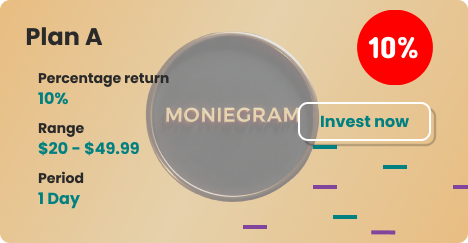
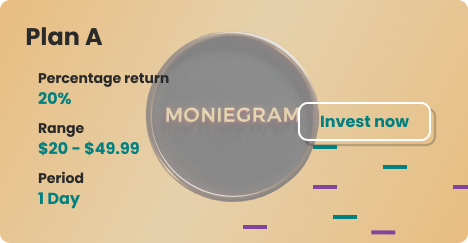
Add files via upload

Changed region(s): [[0.7479, 0.0288, 0.9274, 0.3745], [0.0598, 0.3745, 0.1496, 0.4321]]

diff --git a/invest.html b/invest.html
@@ -27,7 +27,7 @@
                   <div class="tab1">
                     <div class="tab" data-plan="plan-1" data-index="0" style=" background: linear-gradient(to right, rgb(248, 166, 50), rgb(255, 205, 136), rgb(255, 166, 42));"> 
                       <input type="radio" name="plan" id="plan-1-radio" value="plan-1">
-                      <h2>10% RIO AFTER 24 HOURS</h2>
+                      <h2>20% RIO AFTER 24 HOURS</h2>
                       <P class="range">$20-$49.99
 
                       </P> 
@@ -37,7 +37,7 @@
                     </div>
                     <div class="tab" data-plan="plan-2" data-index="1" style=" background: linear-gradient(to right, rgb(248, 166, 50), rgb(255, 205, 136), rgb(255, 166, 42));">
                       <input type="radio" name="plan" id="plan-2-radio" value="plan-2" >
-                      <h2>20% RIO 72 HOURS</h2>
+                      <h2>50% RIO 72 HOURS</h2>
                       <P class="range">$50 - $99.99</P> 
                       <!-- <button>Calculate</button>                        -->
                     </div>
@@ -45,13 +45,13 @@
                   <div class="tab1">
                     <div class="tab" data-plan="plan-3" data-index="2" style=" background: linear-gradient(to right, rgb(248, 166, 50), rgb(255, 205, 136), rgb(255, 166, 42));">
                       <input type="radio" name="plan" id="plan-3-radio" value="plan-3">
-                      <h2>50% RIO AFTER 1 WEEK</h2>
+                      <h2>100% RIO AFTER 1 WEEK</h2>
                       <P class="range">$100 - $499.99</P> 
                       <!-- <button>Calculate</button>                        -->
                     </div>
                     <div class="tab"  data-plan="plan-4" data-index="3" style=" background: linear-gradient(to right, rgb(248, 166, 50), rgb(255, 205, 136), rgb(255, 166, 42));">
                       <input type="radio" name="plan" id="plan-4-radio" value="plan-4">
-                      <h2>100% RIO AFTER 14 DAYS</h2>
+                      <h2>200% RIO AFTER 14 DAYS</h2>
                       <P class="range">$500 - Infinity</P> 
                      
                     </div>
@@ -127,8 +127,8 @@
       // Plan details with deposit limits
       const planDetails = [
         {
-          name: '10% RIO AFTER 24 HOURS',
-          profit: '10%',
+          name: '20% RIO AFTER 24 HOURS',
+          profit: '20%',
           principleReturn: 'Yes',
           creditAmount: '',
           depositFee: '0.00',
@@ -138,8 +138,8 @@
           maxDeposit: 49.99
         },
         {
-          name: '20% RIO AFTER 72 HOURS',
-          profit: '20%',
+          name: '50% RIO AFTER 72 HOURS',
+          profit: '50%',
           principleReturn: 'Yes',
           creditAmount: '',
           depositFee: '0.00',
@@ -149,8 +149,8 @@
           maxDeposit: 99.99
         },
         {
-          name: '50% RIO AFTER 1 WEEK',
-          profit: '50%',
+          name: '100% RIO AFTER 1 WEEK',
+          profit: '100%',
           principleReturn: 'Yes',
           creditAmount: '',
           depositFee: '0.00',
@@ -160,8 +160,8 @@
           maxDeposit: 499.99
         },
         {
-          name: '100% RIO AFTER 14 DAYS',
-          profit: '100%',
+          name: '200% RIO AFTER 14 DAYS',
+          profit: '200%',
           principleReturn: 'Yes',
           creditAmount: '',
           depositFee: '0.00',

diff --git a/server.js b/server.js
@@ -359,10 +359,10 @@ app.post('/api/deposit', async (req, res) => {
 
         // Calculate investment end date based on plan
         const planEndTimes = {
-            '10% RIO AFTER 24 HOURS': 24 * 60 * 60 * 1000, // 24 hours in milliseconds
-            '20% RIO AFTER 72 HOURS': 72 * 60 * 60 * 1000, // 72 hours in milliseconds
-            '50% RIO LONG TERM': 7 * 24 * 60 * 60 * 1000, // 7 days in milliseconds
-            '100% RIO AFTER 14 DAYS': 14 * 24 * 60 * 60 * 1000 // 14 days in milliseconds
+            '20% RIO AFTER 24 HOURS': 24 * 60 * 60 * 1000, // 24 hours in milliseconds
+            '50% RIO AFTER 72 HOURS': 72 * 60 * 60 * 1000, // 72 hours in milliseconds
+            '100% RIO LONG TERM': 7 * 24 * 60 * 60 * 1000, // 7 days in milliseconds
+            '200% RIO AFTER 14 DAYS': 14 * 24 * 60 * 60 * 1000 // 14 days in milliseconds
         };
 
         const investmentStartDate = new Date();
@@ -1338,10 +1338,10 @@ app.post('/api/admin/add-funds', async (req, res) => {
             const endDate = new Date(startDate.getTime() + duration * 60 * 60 * 1000);
 
             const planInterestRates = {
-                '10-RIO-AFTER-24-HOURS': 0.10,
-                '20-RIO-AFTER-72-HOURS': 0.20,
-                '50% RIO AFTER 1 WEEK': 0.50,
-                '100-RIO-AFTER-14-DAYS': 1.00
+                '20-RIO-AFTER-24-HOURS': 0.10,
+                '50-RIO-AFTER-72-HOURS': 0.20,
+                '100% RIO AFTER 1 WEEK': 0.50,
+                '200-RIO-AFTER-14-DAYS': 1.00
             };
 
             const interestRate = planInterestRates[plan_name] || 0;
@@ -1372,10 +1372,10 @@ app.post('/api/admin/add-funds', async (req, res) => {
 
 function getPlanDetails(planId) {
     const plans = {
-        1: { name: '10-RIO-AFTER-24-HOURS', duration: 24 },
-        2: { name: '20-RIO-AFTER-72-HOURS', duration: 72 },
-        3: { name: '50% RIO AFTER 1 WEEK', duration: 168 },
-        4: { name: '100-RIO-AFTER-14-DAYS', duration: 336 }
+        1: { name: '20-RIO-AFTER-24-HOURS', duration: 24 },
+        2: { name: '50-RIO-AFTER-72-HOURS', duration: 72 },
+        3: { name: '100% RIO AFTER 1 WEEK', duration: 168 },
+        4: { name: '200-RIO-AFTER-14-DAYS', duration: 336 }
     };
     return plans[planId] || { name: 'Unknown Plan', duration: 0 };
 }

diff --git a/confirm.html b/confirm.html
@@ -129,8 +129,8 @@
     // Define the planDetails object
 const planDetails = [
     {
-        name: '10% RIO AFTER 24 HOURS',
-        profit: '10%',
+        name: '20% RIO AFTER 24 HOURS',
+        profit: '20%',
         principleReturn: 'Yes',
         creditAmount: '',
         depositFee: '0.00',
@@ -140,8 +140,8 @@ const planDetails = [
         maxDeposit: 49.99
     },
     {
-        name: '20% RIO AFTER 72 HOURS',
-        profit: '20%',
+        name: '50% RIO AFTER 72 HOURS',
+        profit: '50%',
         principleReturn: 'Yes',
         creditAmount: '',
         depositFee: '0.00',
@@ -151,8 +151,8 @@ const planDetails = [
         maxDeposit: 99.99
     },
     {
-        name: '50% RIO AFTER 1 WEEK',
-        profit: '50%',
+        name: '100% RIO AFTER 1 WEEK',
+        profit: '100%',
         principleReturn: 'Yes',
         creditAmount: '',
         depositFee: '0.00',
@@ -162,8 +162,8 @@ const planDetails = [
         maxDeposit: 499.99
     },
     {
-        name: '100% RIO AFTER 14 DAYS',
-        profit: '100%',
+        name: '200% RIO AFTER 14 DAYS',
+        profit: '200%',
         principleReturn: 'Yes',
         creditAmount: '',
         depositFee: '0.00',
